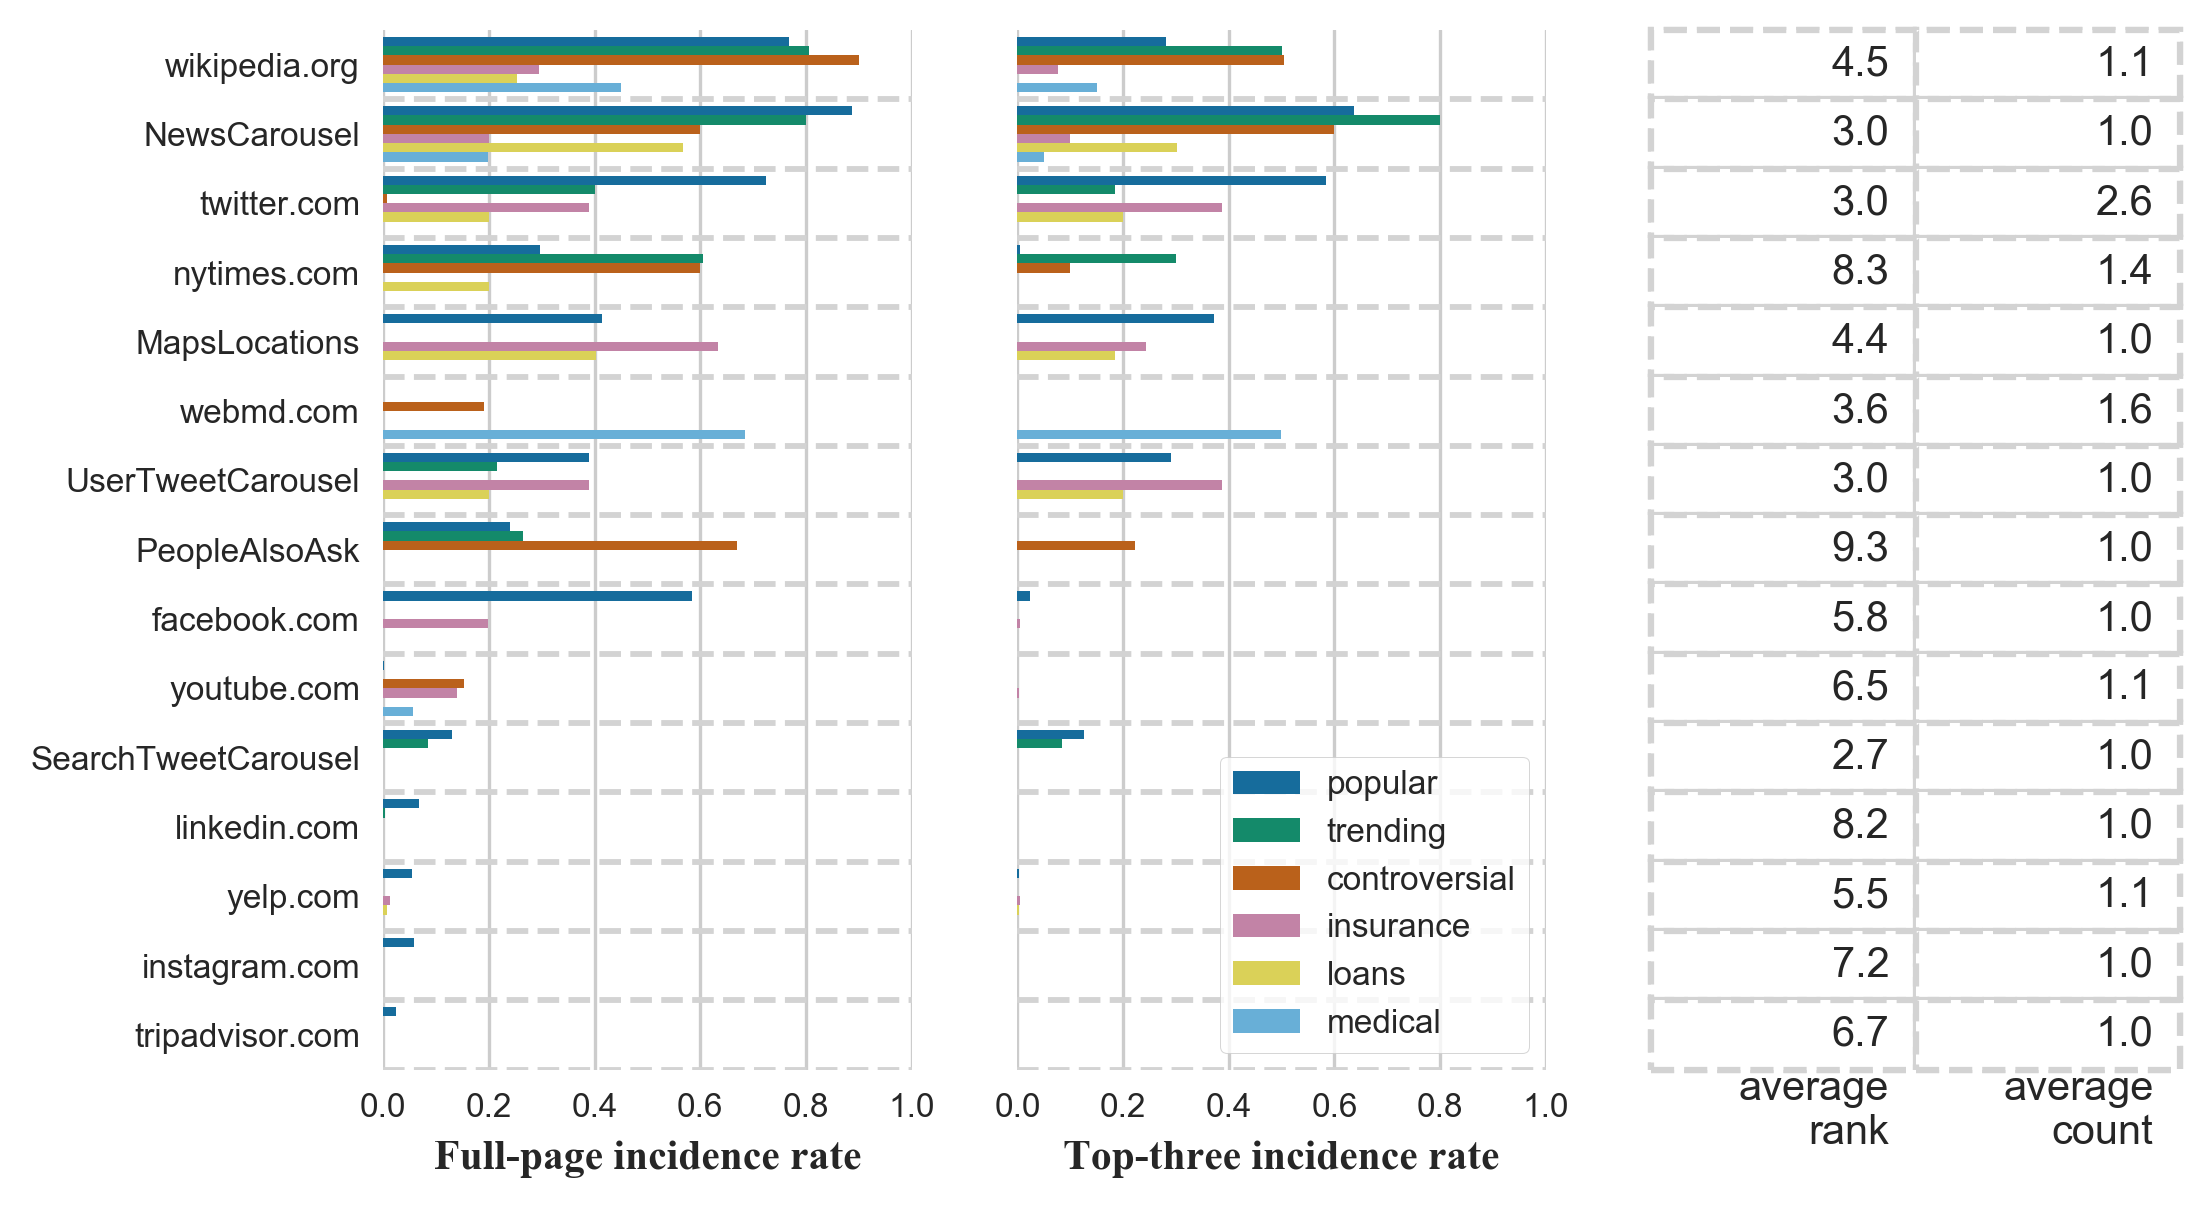
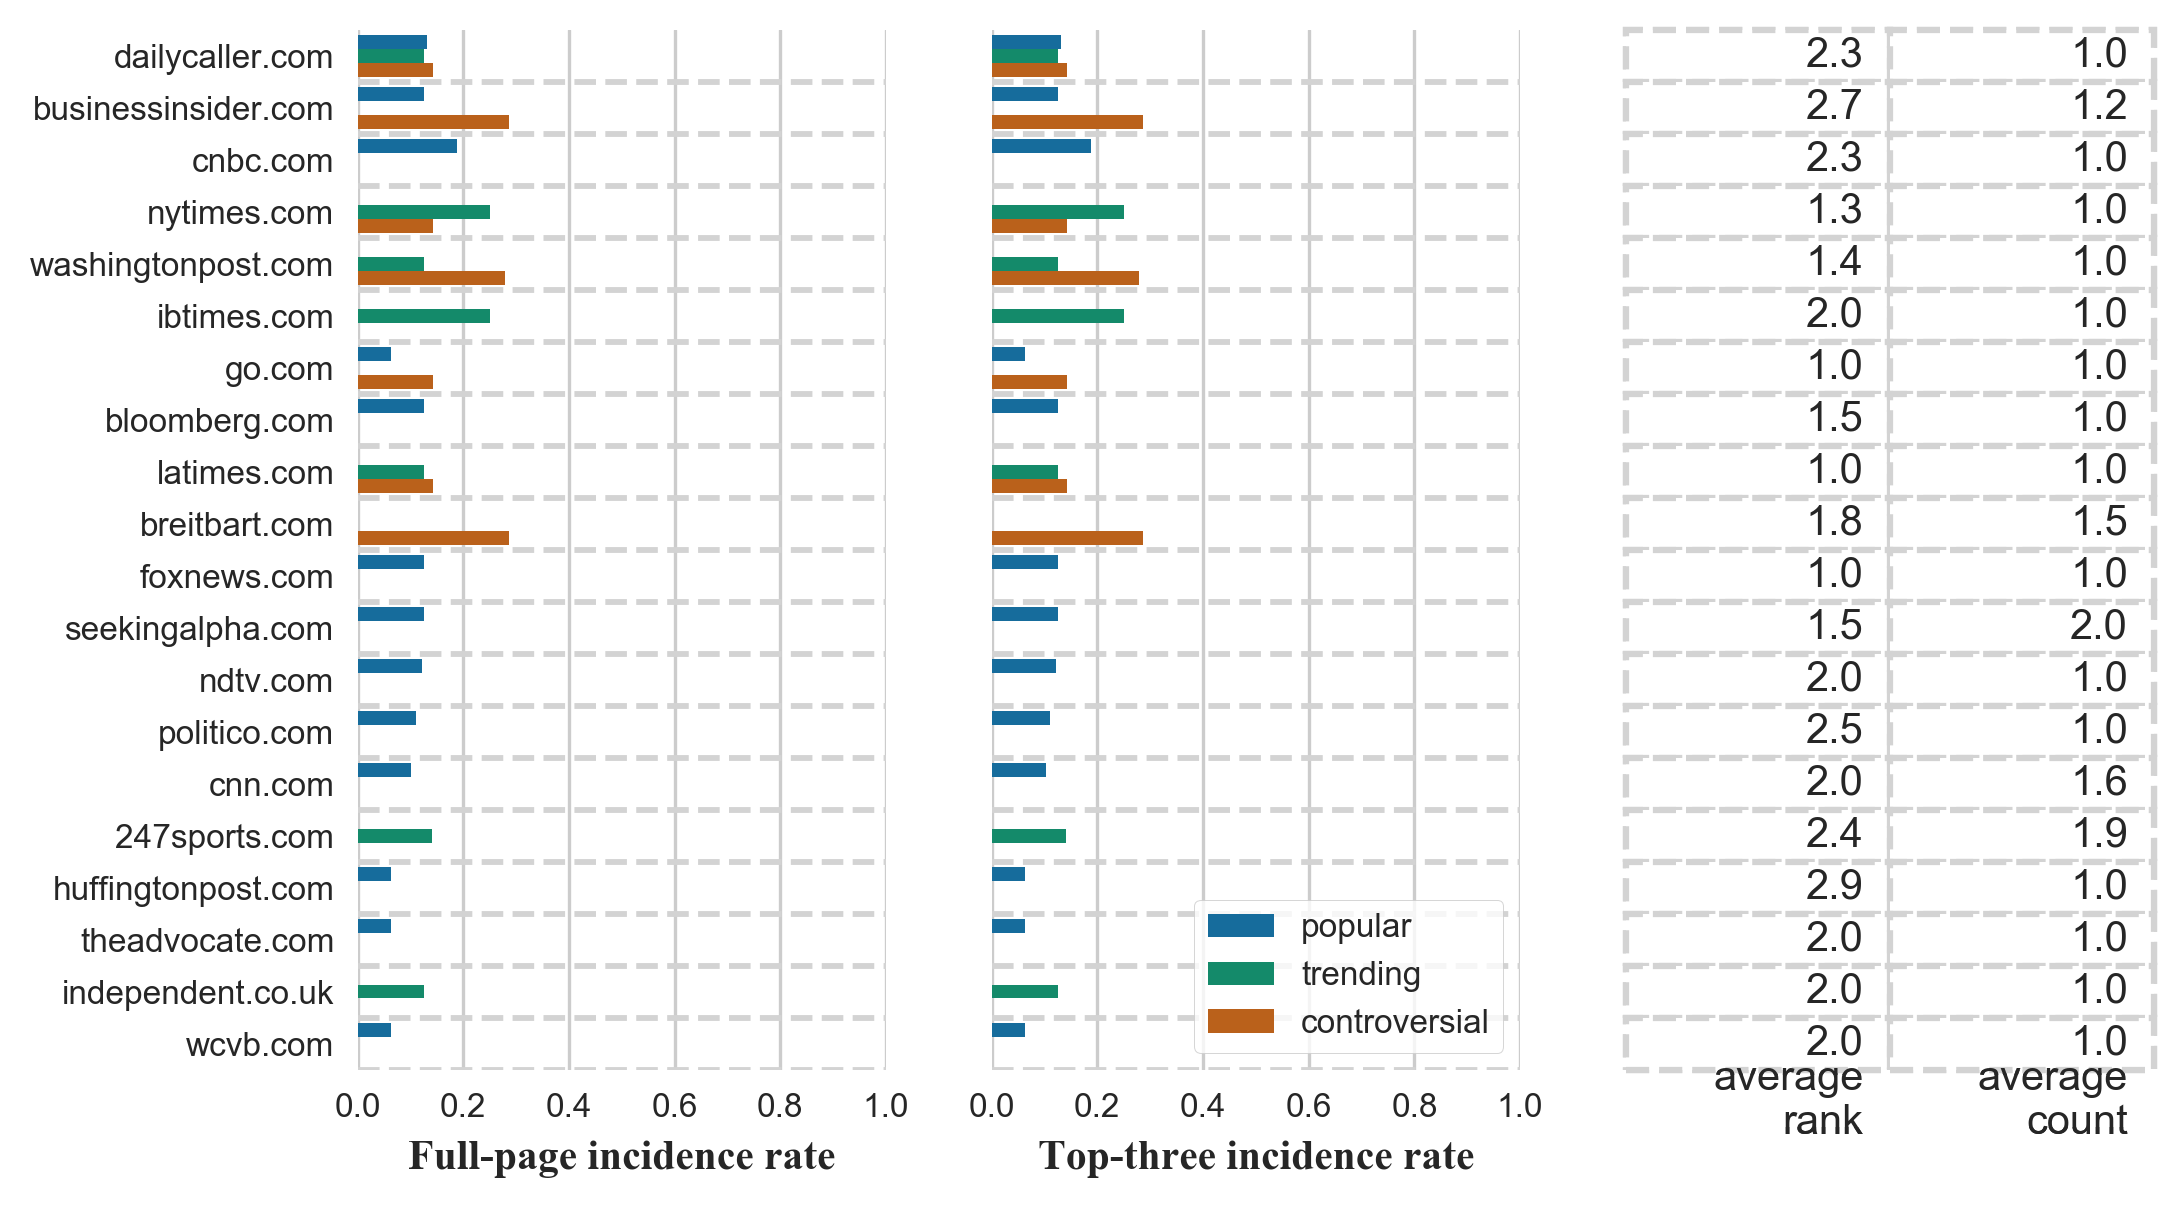
make it work fo rnews

diff --git a/analysis.py b/analysis.py
@@ -570,9 +570,9 @@ def main(args, db, category):
     scraper_search_id_set = data.scraper_search_id.drop_duplicates()
 
     link_types = [
-        'results',
-        #'top_ads',
-        'knowledge_panel',
+        #'results',
+        #'knowledge_panel',
+        'news'
         # ['results', 'tweets'],
         # ['results', 'knowledge_panel']
     ]
@@ -718,8 +718,9 @@ def main(args, db, category):
         x for x in cols if serp_df[x].mean() != 0
     ]
 
-    serp_df[cols_with_nonzero_mean].describe().to_csv(
-        path2 + '/nz_ugcin_serp_df.csv')
+    if cols_with_nonzero_mean:
+        serp_df[cols_with_nonzero_mean].describe().to_csv(
+            path2 + '/nz_ugcin_serp_df.csv')
 
     # nz for non-zero (variable name was too long)
     results_domain_fracs_cols_nz = [
@@ -956,6 +957,7 @@ def main(args, db, category):
                 writer.writerow([row])
     
     importance_df = serp_df[all_cols]
+    #print('importance_df', importance_df)
     if category == 'all':
         importance_df.loc[:, 'category'] = 'all'
     if comparison_df is not None:
@@ -985,20 +987,20 @@ def parse():
     parser.add_argument(
         '--include_kp', dest='include_kp', help='Whether to include_kp', action='store_true', default=False)
     parser.add_argument(
-        '--coded_metrics', dest='coded_metrics', help='Whether to coded_ugc_fracs in analysis output', action='store_true', default=False)
+        '--coded_metrics', dest='coded_metrics', help='Whether to include coded_ugc_fracs in analysis output', action='store_true', default=False)
     parser.add_argument(
         '--group_popular', dest='group_popular', help='treat all popular queries as once group for the purposes of plotting', action='store_true', default=True)
     parser.set_defaults(print_all=False)
 
     args = parser.parse_args()
-    print(args.db)
+    print('args.db', args.db)
     comparison_df = None
     df = None
     ugc_cols = []
     big_cols = []
     for db in args.db:
         if args.category == 'each':
-            cats = ['popular', 'trending', 'procon_popular', 'top_insurance', 'top_loans', 'med_sample_first_20', 'all']
+            cats = ['popular', 'trending', 'procon_popular', 'top_insurance', 'top_loans', 'med_sample_first_20', 'all'] #TODO: why 'all'
         else:
             cats = [args.category]
         start = time.time()

diff --git a/plotters.py b/plotters.py
@@ -21,7 +21,8 @@ def plot_importance(df):
     Plot the importance of each domain.
 
     """
-    df = df[df.link_type == 'results']
+    #TODO: parametrize
+    df = df[df.link_type == 'news']
 
     counts_copy = df[(df.metric == 'domain_count') & (df.category != 'all')]
     df = df.fillna(0)
@@ -33,11 +34,11 @@ def plot_importance(df):
     title_template = '{metric}\n {subset}, {type}'
     # color palettes that will be overlayed.
     pal = 'colorblind'
-    pal_lower = 'muted'
 
     # placeholder for qual coded values
     # df['fake_val'] = df['val'].map(lambda x: x / 2)
     categorized = df[df.category != 'all']
+    print('df head', df.head())
     plot_col_dfs = [categorized]
     sns.set_context("paper", rc={
         "font.size":10, "font.family": "Times New Roman", 
@@ -50,6 +51,9 @@ def plot_importance(df):
     # this seems terribly confusing...
     # is there an easy fix?
     for colnum, subdf in enumerate(plot_col_dfs):
+        if subdf.empty:
+            print('empty')
+            continue
         tmpdf = subdf[
             (subdf.subset == FULL) & (subdf.metric == 'domain_appears')
         ][['domain', 'val', 'is_ugc_col']]
@@ -57,7 +61,7 @@ def plot_importance(df):
                 'val', ascending=False)
         order = list(grouped_and_sorted.index)
         ugc_cols = list(grouped_and_sorted[grouped_and_sorted.is_ugc_col == True].index)
-        print(ugc_cols)
+        print('ugc_cols', ugc_cols)
         nonugc_count = 0
         selected_order = []
         for domain in order:
@@ -65,7 +69,7 @@ def plot_importance(df):
                 selected_order.append(domain)
             else:
                 nonugc_count += 1
-                if nonugc_count <= 5:
+                if nonugc_count <= 20: #TODO
                     selected_order.append(domain)
         
         # for domain in ugc_cols:
@@ -93,6 +97,7 @@ def plot_importance(df):
         title_kwargs = {}
         # for subset in [FULL, TOP_THREE]:
         #     subdf.loc[:, 'domain'] = subdf['domain'].apply(strip_domain_strings_wrapper(subset))
+        print(subdf)
         if colnum in [0]:
             mask1 = (subdf.metric == 'domain_appears') & (subdf.subset == FULL)
             mask2 = (subdf.metric == 'domain_appears') & (subdf.subset == TOP_THREE)

diff --git a/main.py b/main.py
@@ -111,7 +111,7 @@ def main(args):
                     } for keyword in keywords
                 ]
             keyword_objs += CURATED['popular']
-        elif args.query_source in ['all6', 'extra']:
+        if args.query_source in ['all6', 'extra']:
             for query_source in ['top_insurance', 'top_loans', 'med_sample_first_20', ]:
                 keywords = CURATED[query_source] 
                 keyword_objs += [
@@ -160,10 +160,7 @@ def main(args):
     # config.set('mobile_emulation', True)
     print(dbname)
     config.set('database_name', dbname)
-    if args.save_html:
-        config.set('save_html', True)
-    else:
-        config.set('save_html', False)
+    config.set('save_html', True)
     config.set('use_control', False)
     location_df = load_locations()
     locations = []
@@ -269,10 +266,10 @@ def parse():
         Queries to search
         check out querysets.py for more info
         """, default='trends')
-    parser.add_argument(
-        '--save_html', help="""
-        To save html or not.
-        """, action='store_true')
+    # parser.add_argument(
+    #     '--save_html', help="""
+    #     To save html or not.
+    #     """, action='store_true')
     args = parser.parse_args()
     main(args)
 

diff --git a/dev_logs.md b/dev_logs.md
@@ -1,0 +1,4 @@
+# 5/22/2018
+Ran a scrape last night. Turns out almost all the elements have changed their CSS and weren't scraped.
+Only Knowledge Panel, Ads, and Shopping still work.
+I think this makes a strong argument that we should always store the full html for each serp.
